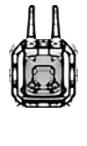
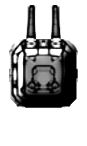
Ships shaded as lit metal, at 2x resolution, with seams, rivets and grain drawn in (tools/finish_ships.ps1)

diff --git a/docs/README.md b/docs/README.md
@@ -89,6 +89,8 @@ validated against the numbers the Linux originals produce:
     powershell -ExecutionPolicy Bypass -File tools\screens\run.ps1
     powershell -ExecutionPolicy Bypass -File tools\snapshot.ps1              # rebuild version\CODE_SNAPSHOT.txt
     powershell -ExecutionPolicy Bypass -File tools\make_ships.ps1            # regenerate every ship and turret sprite from art_source\ (-Preview <png>)
+    powershell -ExecutionPolicy Bypass -File toolsinish_ships.ps1 -In x.png -Out x.png -Bevel 110 -LineShade 0.6 -Light 0.9 -Scale 2 -Detail 120
+                                                                             # shade a hull (lit metal), 2x it, and draw seams, rivets and grain into it
     python tools\make_sounds.py                                              # regenerate the bosses' special-move sounds in sfx\
 
 `-Godot <path>` is optional on both runners; without it they resolve the engine themselves. If you
